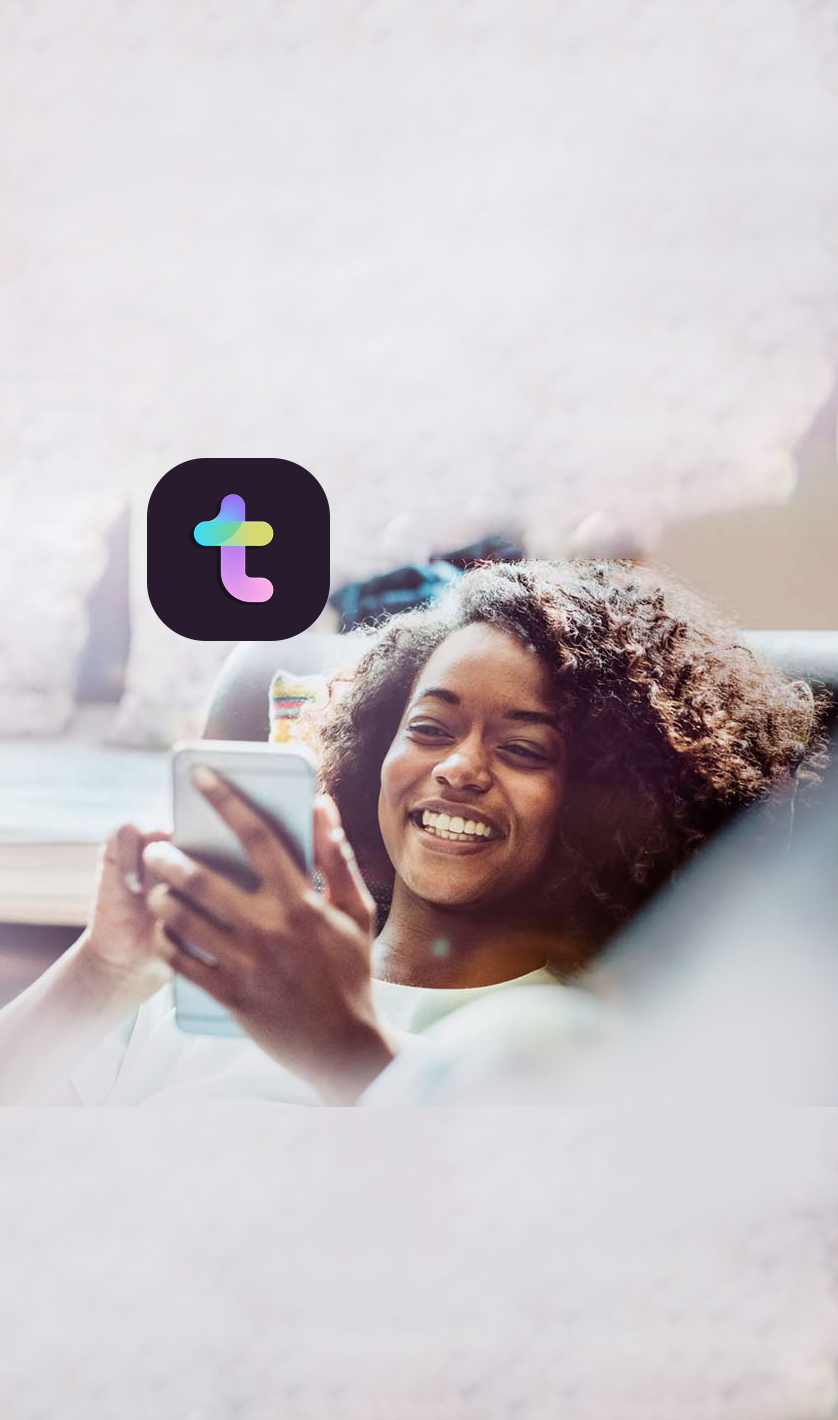
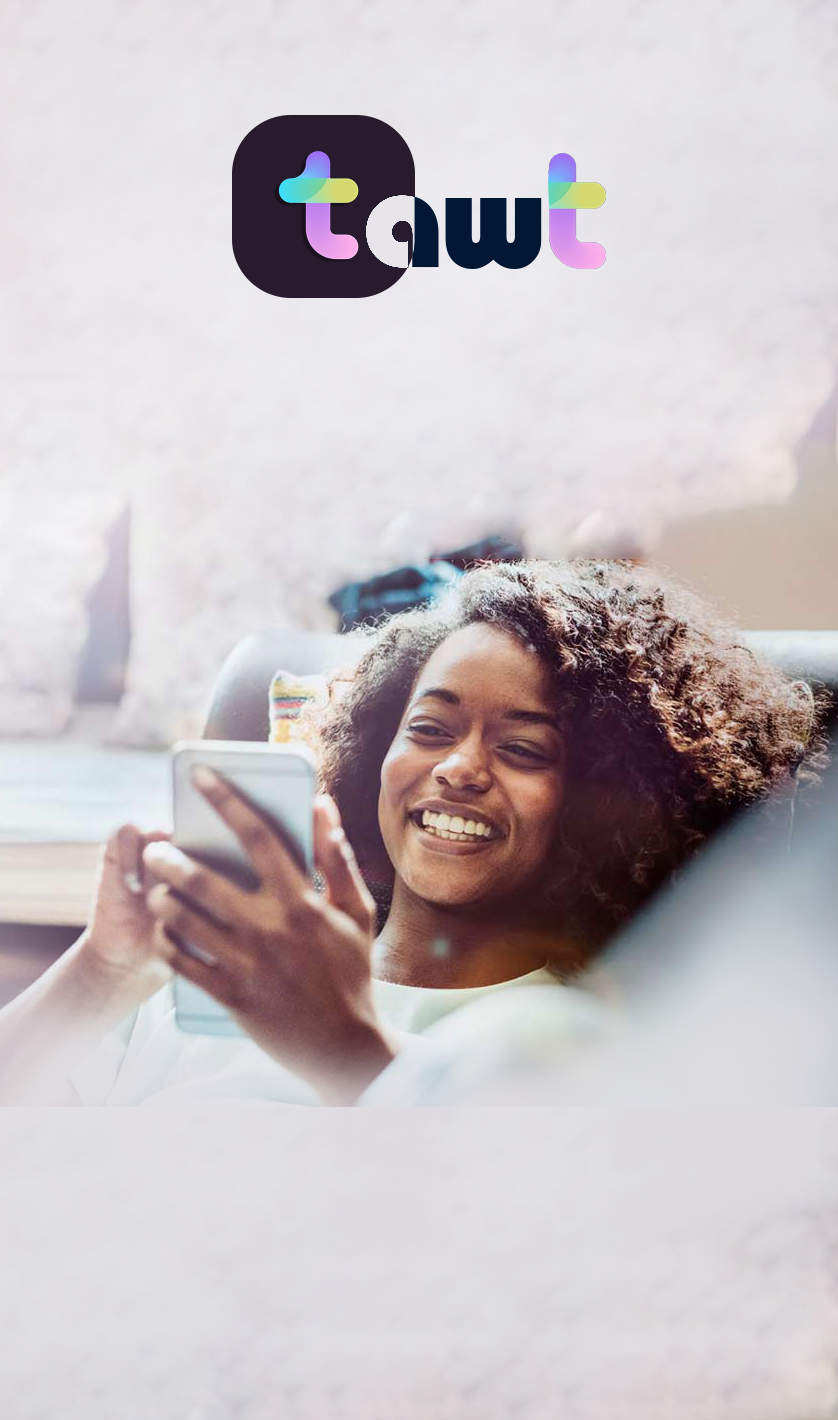
Intro screen background image

Changed region(s): [[0.2792, 0.062, 0.7446, 0.2169], [0.1551, 0.3099, 0.4033, 0.4648]]

diff --git a/src/Screens/intro.js b/src/Screens/intro.js
@@ -24,22 +24,13 @@ const IntroScreen = ({ navigation }) => {
             '#271b2d',
             '#271b2d',
           ]}
-          style={tw.style(
-            'h-full flex justify-between items-center w-full pt-20'
-          )}
+          style={tw.style('h-full flex justify-end items-center w-full pt-20')}
         >
-          <Image
-            source={require('../../assets/logoLong.png')}
-            style={tw.style('', {
-              width: 200,
-              height: 70,
-            })}
-          />
           <View className='w-5/6 flex flex-col space-y-2 pb-8'>
             <Text className='text-3xl font-bold text-center text-slate-200'>
               Meet your people
             </Text>
-            <Text className='text-xl text-center text-slate-300 mb-3'>
+            <Text className='text-xl text-center text-slate-300 mb-6'>
               Just another social media app
             </Text>
             <Button
